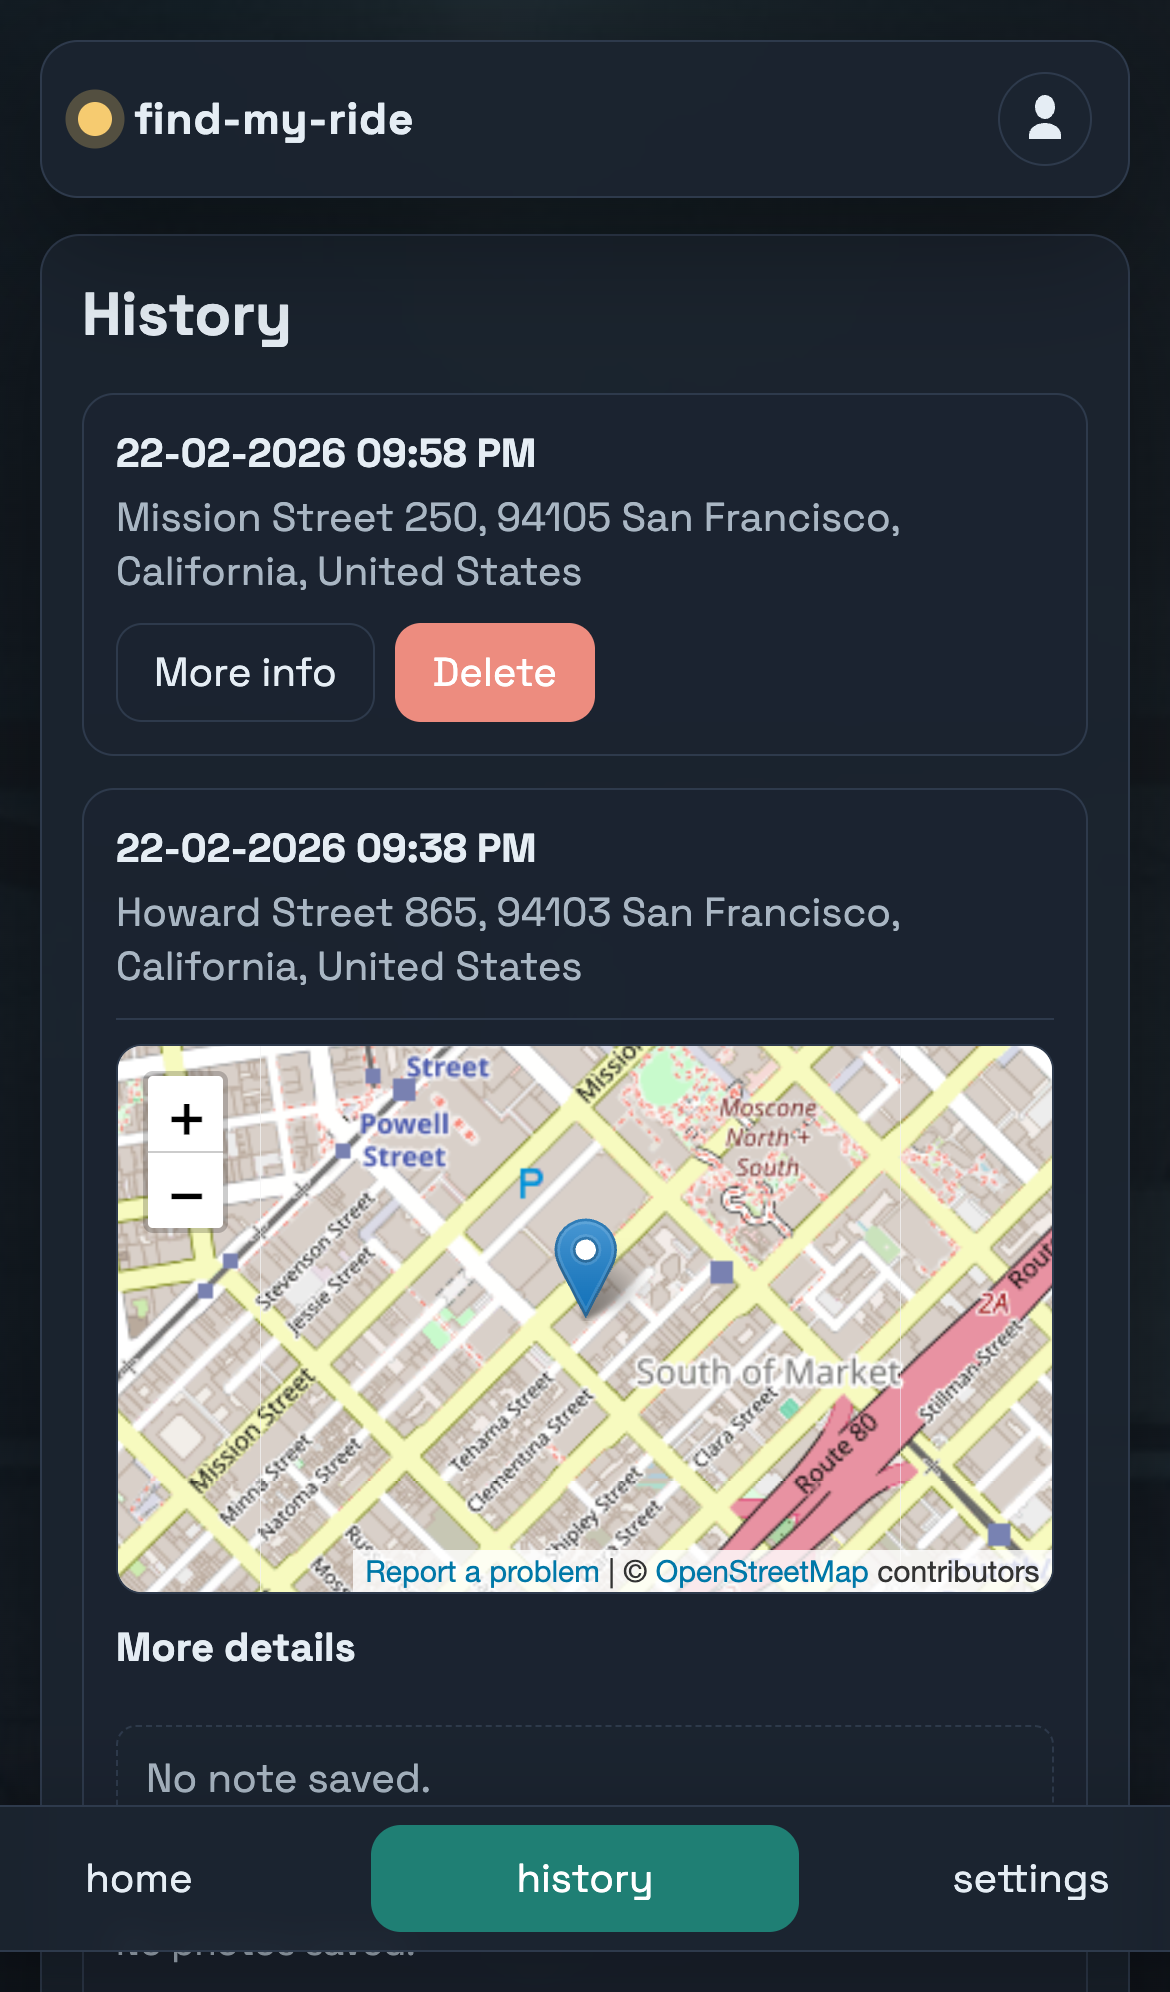
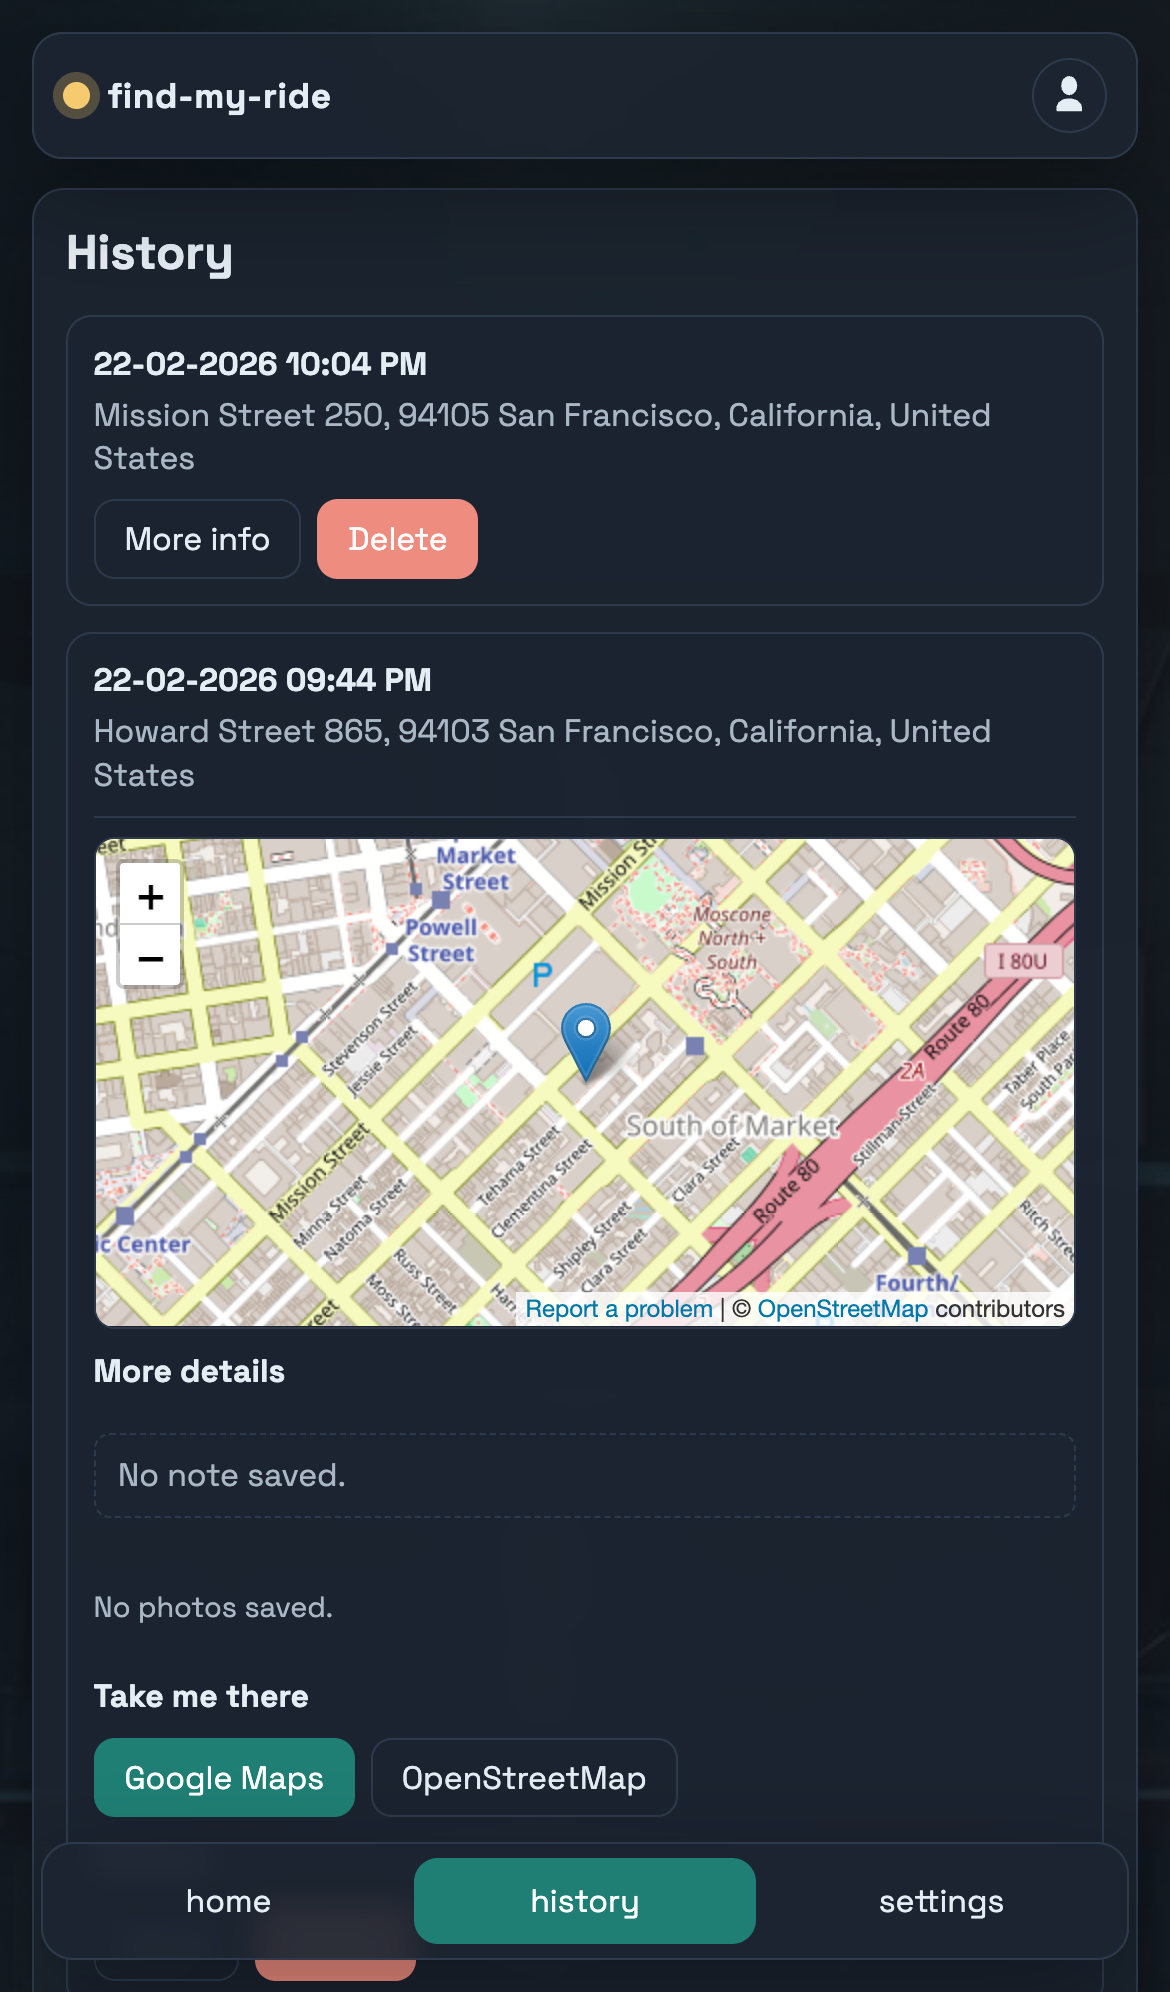
Switch README screenshot workflow back to 2.0x and refresh assets

diff --git a/docs/dev-guide.md b/docs/dev-guide.md
@@ -158,7 +158,7 @@ When refreshing README screenshots (`docs/assets/screenshots/home.png`, `history
 
 - Canonical automation: `./scripts/readme-screenshots/refresh.sh`
 - Output format/size: PNG at `1170x1992` for each image.
-- Visual scale: apply `2.5x` page zoom during capture so card text and controls remain readable in the 3-up README gallery.
+- Visual scale: apply `2.0x` page zoom during capture so card text and controls remain readable in the 3-up README gallery.
 - Theme: dark mode (`fmr_theme_mode=dark`) with the default `evergreen` accent.
 - Environment: run against the local Docker stack (`docker compose up -d --build`) on the frontend URL (`http://127.0.0.1:${FRONTEND_PORT}`; current default in this repo is `15173`).
 - Data setup: use the dedicated demo account (`readme_demo` by default, configurable via `README_DEMO_USERNAME`) with at least 3 history rows:

diff --git a/docs/decisions.md b/docs/decisions.md
@@ -236,7 +236,7 @@
 - Details:
   - `refresh.sh` authenticates a demo user, applies deterministic history seed data, and runs the capture script.
   - `seed_history.sql` sets fixed sample rows so `history` capture state remains stable (second row expanded with map and no note/photos).
-  - `capture.mjs` enforces required dimensions (`1170x1992`), theme (`dark` + `evergreen`), and `2.5x` visual zoom.
+  - `capture.mjs` enforces required dimensions (`1170x1992`), theme (`dark` + `evergreen`), and `2.0x` visual zoom.
 
 ## Related docs
 

diff --git a/scripts/readme-screenshots/README.md b/scripts/readme-screenshots/README.md
@@ -6,7 +6,7 @@ This folder keeps the canonical automation for regenerating README screenshot as
 
 - `refresh.sh`: end-to-end workflow (authenticate demo user, seed DB rows, capture screenshots)
 - `seed_history.sql`: deterministic fake history rows used for README captures
-- `capture.mjs`: Playwright capture flow for `home`, `history`, `settings` at `1170x1992` and `2.5x` UI zoom
+- `capture.mjs`: Playwright capture flow for `home`, `history`, `settings` at `1170x1992` and `2.0x` UI zoom
 
 ## Usage
 
